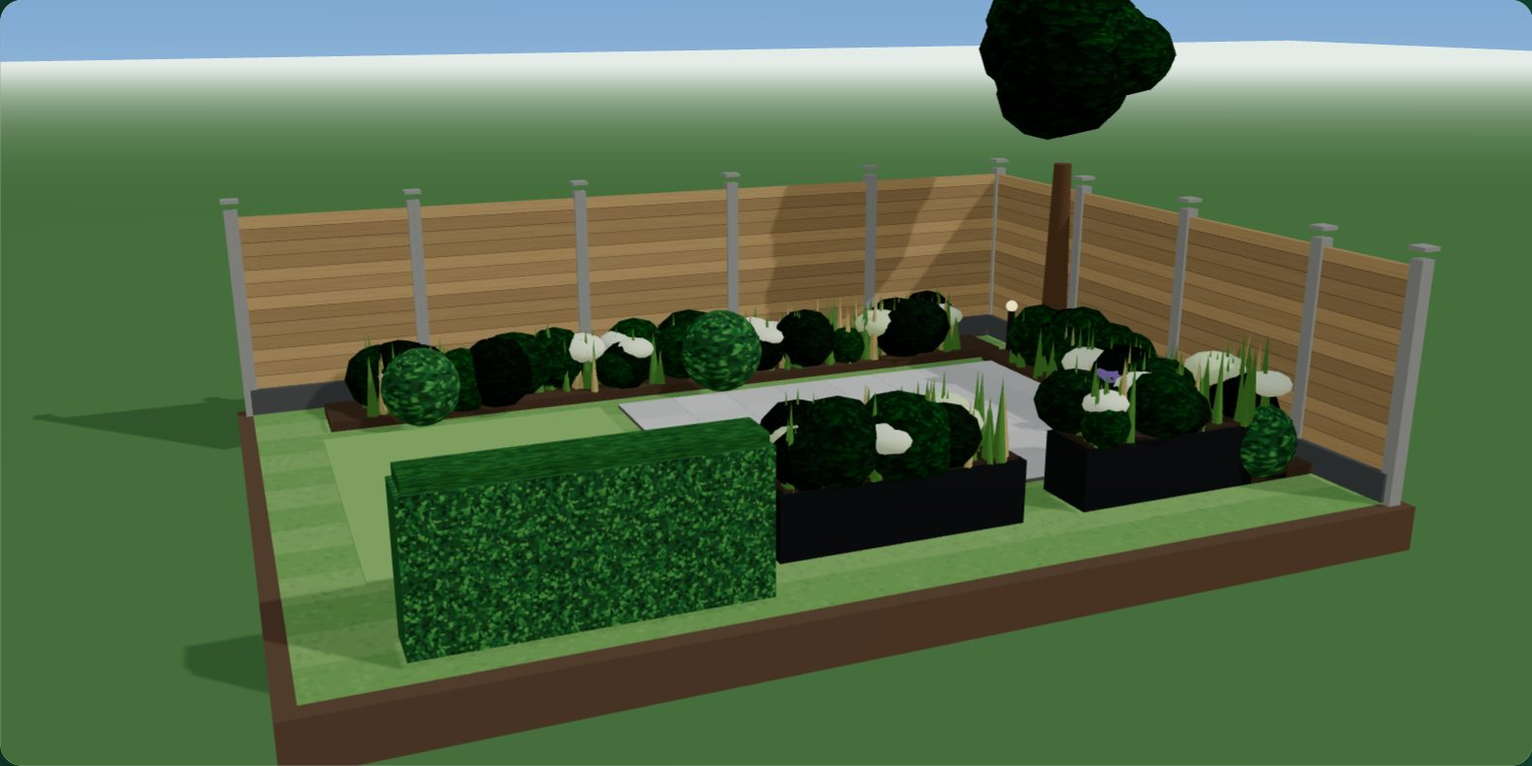
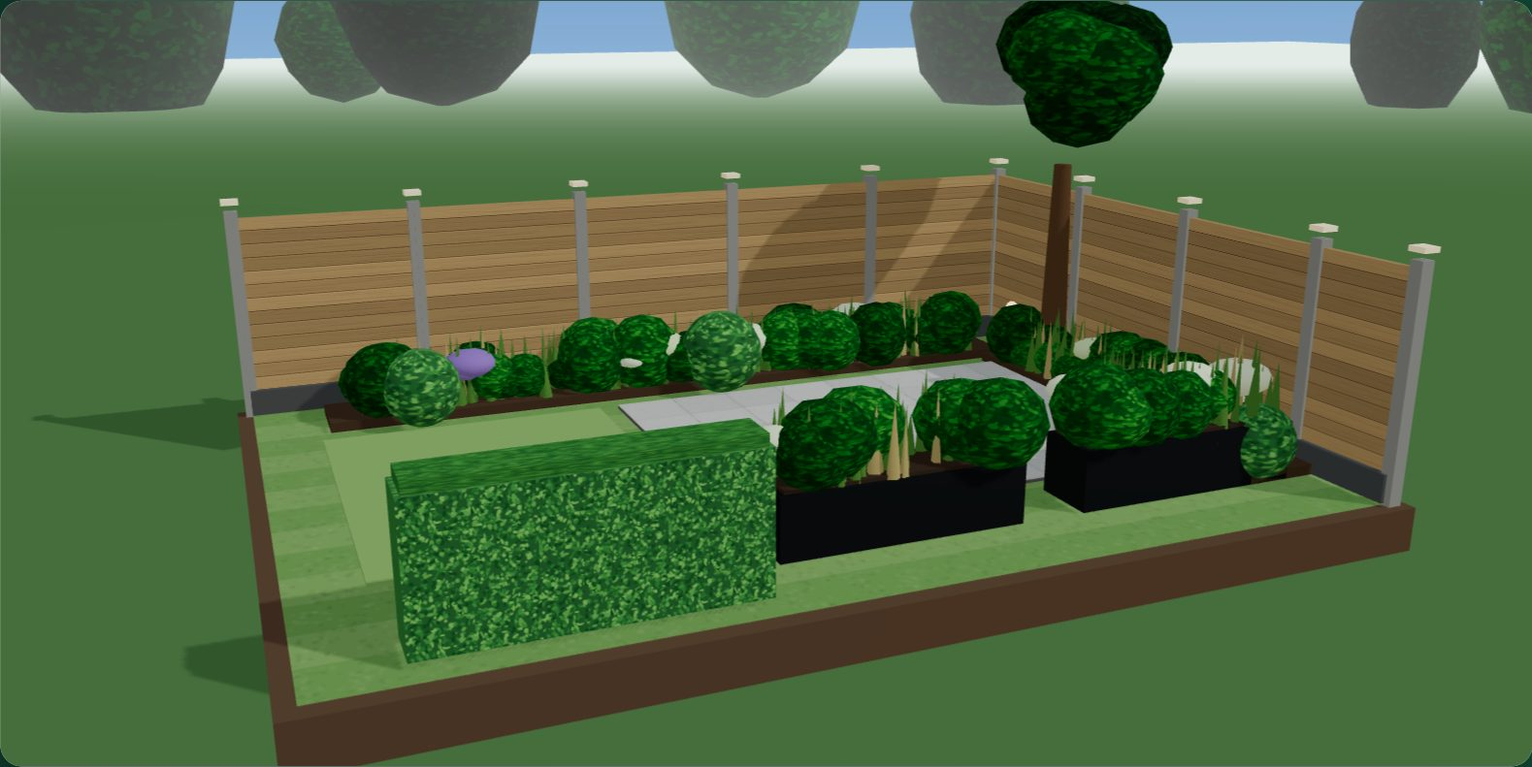
V13 ronde 4: 3D met dag/avond-sfeer (verlichting), omgeving, texturen en planten; schuttingen met projectenraster en rustiger ritme
Claude-Session: https://claude.ai/code/session_01G4kPMSFPp2GYjgRancjYe5

diff --git a/js/configurator/three-scene.js b/js/configurator/three-scene.js
@@ -46,9 +46,6 @@ export function createThreeScene(host, project, opts = {}) {
 
   const scene = new THREE.Scene();
   if (scenic) {
-    const sky = document.createElement("canvas"); sky.width = 4; sky.height = 256; const sg = sky.getContext("2d"), grad = sg.createLinearGradient(0, 0, 0, 256);
-    grad.addColorStop(0, "#7fa9d2"); grad.addColorStop(0.55, "#cfe0ee"); grad.addColorStop(1, "#eef2ee"); sg.fillStyle = grad; sg.fillRect(0, 0, 4, 256);
-    const skyTex = new THREE.CanvasTexture(sky); skyTex.colorSpace = THREE.SRGBColorSpace; scene.background = skyTex;
     scene.fog = new THREE.Fog(0xe4ece8, 30, 95);
   }
   const camera = new THREE.PerspectiveCamera(42, 1, 0.1, 500);
@@ -61,8 +58,8 @@ export function createThreeScene(host, project, opts = {}) {
   controls.maxPolarAngle = Math.PI * 0.49; // niet onder de grond kunnen kijken
   controls.target.set(0, 0, 0);
 
-  scene.add(new THREE.AmbientLight(0xffffff, scenic ? 0.75 : 0.65));
-  if (scenic) scene.add(new THREE.HemisphereLight(0xdfeeff, 0x9a8a6a, 0.8));
+  const ambient = new THREE.AmbientLight(0xffffff, scenic ? 0.75 : 0.65); scene.add(ambient);
+  const hemi = scenic ? new THREE.HemisphereLight(0xdfeeff, 0x9a8a6a, 0.8) : null; if (hemi) scene.add(hemi);
 
   // ---- Scenic: procedurele texturen en vaste pseudo-willekeur (geen externe bestanden) ----
   let seed = 7;
@@ -118,7 +115,7 @@ export function createThreeScene(host, project, opts = {}) {
     const t = plankTexture(hex, horizontal, dark).clone(); t.needsUpdate = true;
     const plank = 0.14 * 6; // 6 planken per tegel
     if (horizontal) t.repeat.set(lengthM / 1.8, heightM / plank); else t.repeat.set(lengthM / plank, heightM / 1.8);
-    const m = track(new THREE.MeshStandardMaterial({ map: t, roughness: dark ? 0.55 : 0.82, metalness: dark ? 0.05 : 0 }));
+    const m = track(new THREE.MeshStandardMaterial({ map: t, bumpMap: t, bumpScale: 1.6, roughness: dark ? 0.55 : 0.82, metalness: dark ? 0.05 : 0 }));
     panelMatCache.set(key, m); return m;
   }
   /** Scenic: bladtextuur en geïnstantieerde beplanting (weinig draw calls, geschikt voor mobiel). */
@@ -126,9 +123,9 @@ export function createThreeScene(host, project, opts = {}) {
   function leafTexture() {
     if (leafTex) return leafTex;
     const c = document.createElement("canvas"); c.width = c.height = 256; const g = c.getContext("2d");
-    g.fillStyle = "#2f5a30"; g.fillRect(0, 0, 256, 256);
+    g.fillStyle = "#3f7340"; g.fillRect(0, 0, 256, 256);
     let sd = 3; const r = () => { sd = (sd * 16807) % 2147483647; return (sd - 1) / 2147483646; };
-    const cols = ["#3d7a3d", "#4f8f45", "#2a5128", "#63a050", "#36703a", "#1f4222"];
+    const cols = ["#58a04f", "#6fb55a", "#3c7a3c", "#84c767", "#4c9246", "#2f6532"];
     for (let i = 0; i < 1500; i++) { g.fillStyle = cols[Math.floor(r() * cols.length)]; g.beginPath(); g.ellipse(r() * 256, r() * 256, 2 + r() * 5, 1.5 + r() * 3, r() * 3.14, 0, 6.28); g.fill(); }
     leafTex = new THREE.CanvasTexture(c); leafTex.colorSpace = THREE.SRGBColorSpace; leafTex.wrapS = leafTex.wrapT = THREE.RepeatWrapping; return leafTex;
   }
@@ -147,11 +144,20 @@ export function createThreeScene(host, project, opts = {}) {
     const group = [];
     const nShrub = Math.max(3, Math.min(34, Math.round(lenM * widM * 6 * density))), nGrass = Math.max(4, Math.min(48, Math.round(lenM * widM * 9 * density))), nBloom = Math.max(2, Math.min(16, Math.round(lenM * widM * 2.2 * density)));
     const rx = () => cx + (rnd() - 0.5) * lenM * 0.9, rz = () => cz + (rnd() - 0.5) * widM * 0.8;
-    const GR = [0x2f5d34, 0x3e7a3f, 0x4f8a45, 0x24492b, 0x5f9a50];
+    const GR = [0x7fb86c, 0x92c97a, 0x6aa85a, 0x5a9a4e, 0xa4d886];
     group.push(instancedSet(new THREE.IcosahedronGeometry(1, 1), foliageMaterial(1, 1), nShrub, () => { const r = 0.2 + rnd() * 0.22; return { x: rx(), y: baseY + r * 0.8, z: rz(), sx: r, sy: r * (0.8 + rnd() * 0.3), sz: r, color: GR[Math.floor(rnd() * GR.length)] }; }));
     group.push(instancedSet(new THREE.ConeGeometry(0.07, 0.8, 5, 1, true), track(new THREE.MeshStandardMaterial({ roughness: 0.9, side: THREE.DoubleSide })), nGrass * 4, () => { const h = 0.5 + rnd() * 0.5; const tan = rnd() > 0.78; return { x: rx(), y: baseY + h * 0.35, z: rz(), sx: 0.6 + rnd() * 0.6, sy: h, sz: 0.6 + rnd() * 0.6, ry: rnd() * 3, color: tan ? 0xb8a56e : 0x5f8a3c }; }));
     group.push(instancedSet(new THREE.IcosahedronGeometry(1, 1), track(new THREE.MeshStandardMaterial({ roughness: 0.8 })), nBloom, () => { const r = 0.15 + rnd() * 0.1; const k = rnd(); return { x: rx(), y: baseY + 0.3 + rnd() * 0.12, z: rz(), sx: r * 1.3, sy: r * 0.7, sz: r * 1.3, color: k < 0.6 ? 0xdfe6c8 : k < 0.85 ? 0xcfdcae : 0x9a86c8 }; }));
     return group;
+  }
+  const tileTex = new Map();
+  function tileTexture(color) {
+    const k = color.getHexString(); if (tileTex.has(k)) return tileTex.get(k);
+    const c = document.createElement("canvas"); c.width = c.height = 128; const g = c.getContext("2d"); g.fillStyle = "#" + k; g.fillRect(0, 0, 128, 128);
+    let sd = 9; const r = () => { sd = (sd * 16807) % 2147483647; return (sd - 1) / 2147483646; };
+    for (let i = 0; i < 700; i++) { g.fillStyle = r() > 0.5 ? "rgba(255,255,255,0.07)" : "rgba(0,0,0,0.07)"; g.fillRect(r() * 128, r() * 128, 1 + r() * 2, 1 + r() * 2); }
+    g.strokeStyle = "rgba(0,0,0,0.12)"; g.lineWidth = 2; g.strokeRect(0, 0, 128, 128);
+    const t = new THREE.CanvasTexture(c); t.colorSpace = THREE.SRGBColorSpace; tileTex.set(k, t); return t;
   }
   function lawnTexture(widthM, depthM) {
     const c = document.createElement("canvas"); c.width = 256; c.height = 256; const g = c.getContext("2d");
@@ -196,6 +202,30 @@ export function createThreeScene(host, project, opts = {}) {
     placeSun();
     scheduleFrame();
   }
+
+  // ---- Scenic: dag/avond-sfeer (verlichting aan, warme zon laag, donkerdere lucht) ----
+  const glowMats = [], lampLights = []; let mood = "day";
+  const MOODS = {
+    day: { amb: [0xffffff, 0.75], hemi: [0xdfeeff, 0x9a8a6a, 0.8], sun: [0xffffff, 0.9, 135, 40], sky: ["#7fa9d2", "#cfe0ee", "#eef2ee"], fog: 0xe4ece8, exposure: 1.0, glow: 0.12, lamp: 0 },
+    evening: { amb: [0x8a96c8, 0.85], hemi: [0x6a80b0, 0x3a3a2a, 1.0], sun: [0xffa860, 0.95, 250, 16], sky: ["#1d2d52", "#7a6a8a", "#f0b27a"], fog: 0x6a6a82, exposure: 1.4, glow: 2.6, lamp: 2.4 }
+  };
+  function paintSky(stops) {
+    const c = document.createElement("canvas"); c.width = 4; c.height = 256; const g = c.getContext("2d"), gr = g.createLinearGradient(0, 0, 0, 256);
+    gr.addColorStop(0, stops[0]); gr.addColorStop(0.55, stops[1]); gr.addColorStop(1, stops[2]); g.fillStyle = gr; g.fillRect(0, 0, 4, 256);
+    if (scene.background && scene.background.dispose) scene.background.dispose();
+    const t = new THREE.CanvasTexture(c); t.colorSpace = THREE.SRGBColorSpace; scene.background = t;
+  }
+  function applyMood() {
+    if (!scenic) return; const m = MOODS[mood];
+    ambient.color.set(m.amb[0]); ambient.intensity = m.amb[1]; hemi.color.set(m.hemi[0]); hemi.groundColor.set(m.hemi[1]); hemi.intensity = m.hemi[2];
+    sun.color.set(m.sun[0]); sun.intensity = m.sun[1]; sunState.azimuthDeg = m.sun[2]; sunState.elevationDeg = m.sun[3]; placeSun();
+    paintSky(m.sky); if (scene.fog) scene.fog.color.set(m.fog); renderer.toneMappingExposure = m.exposure;
+    glowMats.forEach((g) => { g.emissiveIntensity = g.userData.window ? (mood === "evening" ? 1.6 : 0.05) : m.glow; });
+    lampLights.forEach((l) => { l.intensity = m.lamp; });
+    scheduleFrame();
+  }
+  function setMood(name) { if (!MOODS[name]) return; mood = name; applyMood(); }
+  if (scenic) paintSky(MOODS.day.sky);
 
   const dynamicGroup = new THREE.Group();
   scene.add(dynamicGroup);
@@ -313,7 +343,8 @@ export function createThreeScene(host, project, opts = {}) {
       mesh.position.set(post.xMm * MM, (heightM + baseM) / 2, post.zMm * MM);
       dynamicGroup.add(mesh);
       if (scenic) {
-        const cap = new THREE.Mesh(track(new THREE.BoxGeometry(postSize + 0.04, 0.035, postSize + 0.04)), postMaterial);
+        const capMat = track(new THREE.MeshStandardMaterial({ color: 0xf0e6cc, emissive: 0xffc77a, emissiveIntensity: MOODS[mood].glow, roughness: 0.6 })); glowMats.push(capMat);
+        const cap = new THREE.Mesh(track(new THREE.BoxGeometry(postSize + 0.04, 0.05, postSize + 0.04)), capMat);
         cap.position.set(post.xMm * MM, heightM + baseM + 0.15 + 0.0175, post.zMm * MM);
         dynamicGroup.add(cap);
       }
@@ -340,7 +371,7 @@ export function createThreeScene(host, project, opts = {}) {
     if (!paving || !Array.isArray(paving.areas) || paving.areas.length === 0) return;
     const preset = getPavingColorPreset(paving.colorPresetId);
     const color = preset ? new THREE.Color(preset.colorHex) : new THREE.Color(0xc7c6c0);
-    const material = track(new THREE.MeshStandardMaterial({ color, roughness: 0.9 }));
+    const material = track(new THREE.MeshStandardMaterial({ color: scenic ? 0xffffff : color, map: scenic ? tileTexture(color) : null, bumpMap: scenic ? tileTexture(color) : null, bumpScale: 0.6, roughness: 0.85 }));
     const thicknessM = 0.04;
 
     let allTiles = [];
@@ -404,6 +435,15 @@ export function createThreeScene(host, project, opts = {}) {
       const around = new THREE.Mesh(track(new THREE.PlaneGeometry(200, 200)), track(new THREE.MeshStandardMaterial({ color: 0x5f8350, roughness: 1 })));
       around.rotation.x = -Math.PI / 2; around.position.set(cx, -0.43, cz); around.userData.isGround = true;
       dynamicGroup.add(around);
+      // Omgeving: boomgrens en buurhuis geven diepte (alleen visueel)
+      const R = Math.max(widthM, depthM) * 2.6 + 26, GRN = [0x2f5d34, 0x3e7a3f, 0x24492b, 0x4f8a45];
+      dynamicGroup.add(instancedSet(new THREE.IcosahedronGeometry(1, 1), foliageMaterial(2, 2), 34, (i) => { const a = (i / 34) * 6.283 + rnd() * 0.15, r = R + rnd() * 6, s2 = 2.6 + rnd() * 3; return { x: cx + Math.cos(a) * r, y: s2 * 0.9, z: cz + Math.sin(a) * r, sx: s2, sy: s2 * (0.9 + rnd() * 0.5), sz: s2, color: GRN[i % GRN.length] }; }));
+      const hx = cx - R * 0.35, hz = cz - R * 0.78, wallM = track(new THREE.MeshStandardMaterial({ color: 0xe6e1d4, roughness: 0.95 }));
+      const house = new THREE.Mesh(track(new THREE.BoxGeometry(11, 6.5, 7)), wallM); house.position.set(hx, 3.25, hz);
+      const roof = new THREE.Mesh(track(new THREE.CylinderGeometry(4.6, 4.6, 11.6, 3)), track(new THREE.MeshStandardMaterial({ color: 0x3b3f45, roughness: 0.8 }))); roof.rotation.z = Math.PI / 2; roof.rotation.y = Math.PI / 2; roof.position.set(hx, 7.6, hz); roof.scale.set(1, 1, 0.55);
+      dynamicGroup.add(house, roof);
+      for (let i = 0; i < 4; i++) { const wm = track(new THREE.MeshStandardMaterial({ color: 0x9fb4c4, emissive: 0xffc47a, emissiveIntensity: mood === "evening" ? 1.6 : 0.05, roughness: 0.3 })); wm.userData.window = true; glowMats.push(wm); const w = new THREE.Mesh(track(new THREE.PlaneGeometry(1.6, 1.8)), wm); w.position.set(hx - 3.6 + i * 2.4, 2.8, hz + 3.52); dynamicGroup.add(w); }
+
     } else {
       const grid = track(new THREE.GridHelper(Math.max(widthM, depthM) * 1.4, Math.round(Math.max(widthM, depthM))));
       grid.position.set(cx, 0, cz);
@@ -471,9 +511,11 @@ export function createThreeScene(host, project, opts = {}) {
       if (o.type === "lamp") {
         const pole = new THREE.Mesh(track(new THREE.CylinderGeometry(0.04, 0.05, 0.6, 10)), mat);
         pole.position.set(cx, 0.3, cz);
-        const glow = new THREE.Mesh(track(new THREE.SphereGeometry(0.07, 10, 8)), track(new THREE.MeshStandardMaterial({ color: 0xfff1c4, emissive: 0xffd77a, emissiveIntensity: 0.8 })));
+        const gm = track(new THREE.MeshStandardMaterial({ color: 0xfff1c4, emissive: 0xffd77a, emissiveIntensity: 0.8 }));
+        const glow = new THREE.Mesh(track(new THREE.SphereGeometry(0.07, 10, 8)), gm);
         glow.position.set(cx, 0.64, cz);
         dynamicGroup.add(pole, glow);
+        if (scenic && lampLights.length < 4) { gm.userData.lamp = true; glowMats.push(gm); const pl = new THREE.PointLight(0xffc27a, MOODS[mood].lamp, 7, 2); pl.position.set(cx, 0.8, cz); dynamicGroup.add(pl); lampLights.push(pl); }
         continue;
       }
       if (scenic && !remove && o.type === "hedge") {
@@ -508,6 +550,7 @@ export function createThreeScene(host, project, opts = {}) {
     }
     disposables.clear();
     clearGroup(dynamicGroup);
+    glowMats.length = 0; lampLights.length = 0;
 
     const { widthM, depthM, cx, cz } = buildGardenGround(project.garden);
     buildFence(project.fence);
@@ -640,5 +683,5 @@ export function createThreeScene(host, project, opts = {}) {
   update(project);
   setView("3d");
 
-  return { update, setView, resetCamera, exportPng, dispose, setSun, projectPoint, onFrame };
+  return { update, setView, resetCamera, exportPng, dispose, setSun, setMood, projectPoint, onFrame };
 }

diff --git a/schuttingen/index.html b/schuttingen/index.html
@@ -150,36 +150,7 @@
       </ul>
       <p class="callout">Schuttingen worden geoffreerd per strekkende meter, afhankelijk van materiaal en afwerking. Het schuttingmateriaal kan in de offerte worden opgenomen, na advies over geschikte opties.</p></div></details></div></div></section>
 
-  <section class="section section-sand-deep">
-    <div class="container-narrow">
-      <h2>Waarom Sealcleaning?</h2>
-      <p>Sealcleaning is een jong en gedreven hoveniersbedrijf uit Dordrecht, ondersteund door vakmensen met jarenlange praktijkervaring. We werken met korte lijnen: u spreekt rechtstreeks met wie het werk uitvoert, en maken vooraf duidelijke afspraken over werkzaamheden en materialen.</p>
-      <a href="../over-ons/" class="btn btn-secondary btn-sm">Meer over ons</a>
-    </div>
-  </section>
-
-  <section class="section">
-    <div class="container">
-      <div class="section-head center">
-        <p class="eyebrow">Uit de praktijk</p>
-        <h2>Relevante projecten</h2>
-      </div>
-      <div class="feature-split reveal">
-        <div class="feature-media reveal-img">
-          <picture><source srcset="../images/projects/schutting-horizontaal-lamellen-zon-2-640.webp 640w, ../images/projects/schutting-horizontaal-lamellen-zon-2-800.webp 800w, ../images/projects/schutting-horizontaal-lamellen-zon-2-960.webp 960w, ../images/projects/schutting-horizontaal-lamellen-zon-2.webp 1200w" sizes="(max-width: 700px) 92vw, (max-width: 1100px) 46vw, 440px" type="image/webp"><img src="../images/projects/schutting-horizontaal-lamellen-zon-2.jpg" alt="Schutting met horizontale lamellen" loading="lazy" decoding="async" width="1200" height="1600"></picture>
-        </div>
-        <div class="feature-copy">
-          <h3 style="font-size: var(--fs-h2)">Schutting geplaatst, Dordrecht</h3>
-          <p class="lede" style="font-size:1.05rem">Grenen schutting op zwarte onderplaat</p>
-          <a href="../projecten/" class="link-underline">
-            Bekijk alle projecten
-            <svg width="16" height="16" viewBox="0 0 24 24" fill="none" stroke="currentColor" stroke-width="2"><path d="M5 12h14M13 6l6 6-6 6"/></svg>
-          </a>
-        </div>
-      </div>
-      <p class="text-center" style="margin-top:2rem"><a href="../projecten/" class="btn btn-secondary">Bekijk alle projecten</a></p>
-    </div>
-  </section>
+  <!--v13-proj--><section class="v-section" aria-labelledby="titel-praktijk"><div class="container"><div class="v-section-head v-row"><div><p class="v-eyebrow">Uit de praktijk</p><h2 class="v-h2" id="titel-praktijk">Schuttingen die we plaatsten</h2><p class="v-lede">Sealcleaning is een jong en gedreven hoveniersbedrijf uit Dordrecht, ondersteund door vakmensen met jarenlange praktijkervaring. U spreekt rechtstreeks met wie het werk uitvoert. <a class="v-link" href="../over-ons/">Meer over ons</a></p></div><a class="btn btn-secondary" href="../projecten/">Bekijk alle projecten</a></div><div class="v-projects v-projects-3"><a class="v-project" href="../projecten/grenen-schutting-zwarte-onderplaat/"><figure style="margin:0;height:100%"><picture><source srcset="../images/projects/schutting-grenen-zwarte-voet-1-640.webp 640w, ../images/projects/schutting-grenen-zwarte-voet-1-800.webp 800w, ../images/projects/schutting-grenen-zwarte-voet-1-960.webp 960w, ../images/projects/schutting-grenen-zwarte-voet-1.webp 1500w" sizes="(max-width: 700px) 92vw, 360px" type="image/webp"><img src="../images/projects/schutting-grenen-zwarte-voet-1.jpg" alt="Grenen schutting op zwarte onderplaat, eigen werk van Sealcleaning" width="1500" height="1000" loading="lazy" decoding="async"></picture><figcaption><strong>Grenen schutting op zwarte onderplaat</strong>Hout op onderplaat, Dordrecht</figcaption></figure></a><a class="v-project" href="../projecten/kastanjehouten-paaltjesschutting/"><figure style="margin:0;height:100%"><picture><source srcset="../images/projects/schutting-kastanje-paaltjes-dordrecht-1-640.webp 640w, ../images/projects/schutting-kastanje-paaltjes-dordrecht-1-800.webp 800w, ../images/projects/schutting-kastanje-paaltjes-dordrecht-1-960.webp 960w, ../images/projects/schutting-kastanje-paaltjes-dordrecht-1.webp 1500w" sizes="(max-width: 700px) 92vw, 360px" type="image/webp"><img src="../images/projects/schutting-kastanje-paaltjes-dordrecht-1.jpg" alt="Kastanjehouten paaltjesschutting, eigen werk van Sealcleaning" width="1500" height="1000" loading="lazy" decoding="async"></picture><figcaption><strong>Kastanjehouten paaltjesschutting</strong>Rustiek en open, Dordrecht</figcaption></figure></a><a class="v-project" href="../projecten/kunstgras-achter-nieuwe-schutting/"><figure style="margin:0;height:100%"><picture><source srcset="../images/projects/terras-kunstgras-opgeleverd-640.webp 640w, ../images/projects/terras-kunstgras-opgeleverd-800.webp 800w, ../images/projects/terras-kunstgras-opgeleverd-960.webp 960w, ../images/projects/terras-kunstgras-opgeleverd.webp 1500w" sizes="(max-width: 700px) 92vw, 360px" type="image/webp"><img src="../images/projects/terras-kunstgras-opgeleverd.jpg" alt="Kunstgras achter nieuwe schutting, eigen werk van Sealcleaning" width="1500" height="1000" loading="lazy" decoding="async"></picture><figcaption><strong>Kunstgras achter nieuwe schutting</strong>Schutting en gazon, Dordrecht</figcaption></figure></a></div></div></section>
 
   <section class="section section-sand-deep">
     <div class="container-narrow">
@@ -197,19 +168,6 @@
           <summary>Hoe stevig worden de palen verankerd?<span class="chev"><svg width="18" height="18" viewBox="0 0 24 24" fill="none" stroke="currentColor" stroke-width="2"><path d="M12 5v14M5 12h14"/></svg></span></summary>
           <p>De palen worden stevig ingegraven en verankerd, afgestemd op de hoogte en het materiaal van de schutting.</p>
         </details>
-      </div>
-    </div>
-  </section>
-
-  <section class="section">
-    <div class="container">
-      <div class="cta-banner reveal">
-        <h2>Wilt u aan de slag met schuttingen?</h2>
-        <p>Plan een gratis bezichtiging in Dordrecht en ontvang een heldere offerte, of stuur direct een bericht via WhatsApp.</p>
-        <div class="btn-row" style="justify-content:center">
-          <a href="../contact/" class="btn btn-ghost-light btn-lg" style="background:#fff;color:var(--c-forest);border-color:#fff">Plan mijn bezichtiging</a>
-          <a href="#" class="btn btn-ghost-light btn-lg" data-whatsapp data-whatsapp-msg="Hallo Sealcleaning, ik wil graag informatie over het plaatsen of vervangen van een schutting.">Stuur een WhatsApp-bericht</a>
-        </div>
       </div>
     </div>
   </section>

diff --git a/js/v12/beginner/app.js b/js/v12/beginner/app.js
@@ -213,6 +213,7 @@ async function ensureScene() {
     if (!mod.isWebGL2Supported()) throw new Error("webgl");
     preview.scene = mod.createThreeScene(preview.host, buildProject(preview.decor), { scenic: true, figure: true });
     preview.scene.onFrame(drawDims);
+    if (preview.mood === "evening") preview.scene.setMood("evening");
     updatePreview();
   } catch (e) {
     preview.fallback = true;
@@ -597,6 +598,7 @@ function reset() { st = fresh(); preview.showDims = true; save(); render(true); 
 
 /* ---------------- preview-bediening ---------------- */
 root.querySelector("[data-b-view-top]")?.addEventListener("click", () => preview.scene && preview.scene.setView("top"));
+root.querySelector("[data-b-mood]")?.addEventListener("click", (e) => { preview.mood = preview.mood === "evening" ? "day" : "evening"; e.currentTarget.setAttribute("aria-pressed", String(preview.mood === "evening")); if (preview.scene) preview.scene.setMood(preview.mood); });
 root.querySelector("[data-b-view-iso]")?.addEventListener("click", () => preview.scene && preview.scene.setView("iso"));
 root.querySelector("[data-b-view-front]")?.addEventListener("click", () => preview.scene && preview.scene.setView("front"));
 root.querySelector("[data-b-view-reset]")?.addEventListener("click", () => preview.scene && preview.scene.resetCamera());

diff --git a/css/v12.css b/css/v12.css
@@ -669,3 +669,12 @@ html { scroll-padding-bottom: 96px; }
 .i-mat { font-size: .78rem !important; letter-spacing: .04em; text-transform: uppercase; color: #6b4f1d !important; font-weight: 600; }
 .i-cards .i-card-body p:not(.i-mat) { min-height: 2.9em; }
 @media (max-width: 700px) { .v-3d-stage--big { aspect-ratio: 1 / 1; } .b-preview-stage { aspect-ratio: 5 / 4; } }
+/* Schuttingen: rustiger ritme */
+body.v12 main > .v-section { padding-block: clamp(2rem, 4vw, 3.4rem); }
+.v-section.v-sand + .v-section.v-sand { padding-top: 0; }
+.i-cards { gap: 1.4rem; }
+.i-card { box-shadow: 0 1px 2px rgba(16, 46, 39, .05); transition: box-shadow .2s, transform .2s; }
+.i-card:hover { box-shadow: 0 10px 28px rgba(16, 46, 39, .14); transform: translateY(-2px); }
+.i-card-img img { transition: transform .5s; }
+.i-card:hover .i-card-img img { transform: scale(1.04); }
+.i-disclaimer { max-width: 62ch; }

diff --git a/js/v12/home3d.js b/js/v12/home3d.js
@@ -36,6 +36,10 @@ if (host) {
         document.querySelectorAll("[data-3d-mat]").forEach((o) => o.setAttribute("aria-pressed", String(o === b)));
         note(`Voorbeeld in 3D met ${b.textContent.toLowerCase()}, geen echt project.`);
       }));
+      document.querySelectorAll("[data-3d-mood]").forEach((b) => b.addEventListener("click", () => {
+        scene.setMood(b.dataset["3dMood"]); document.querySelectorAll("[data-3d-mood]").forEach((o) => o.setAttribute("aria-pressed", String(o === b)));
+        note(b.dataset["3dMood"] === "evening" ? "Avondsfeer met tuinverlichting, geen echt project." : "Voorbeeld in 3D, geen echt project. Sleep om rond te kijken.");
+      }));
       btn("[data-3d-top]", () => scene.setView("top"));
       btn("[data-3d-iso]", () => scene.setView("iso"));
       btn("[data-3d-reset]", () => scene.resetCamera());

diff --git a/index.html b/index.html
@@ -146,6 +146,10 @@
           <button type="button" class="v-chip" data-3d-mat="composiet" aria-pressed="false">Composiet</button>
           <button type="button" class="v-chip" data-3d-mat="lamellen" aria-pressed="false">Horizontale planken</button>
         </div>
+        <div class="v-3d-tools" role="group" aria-label="Sfeer">
+          <button type="button" class="v-chip" data-3d-mood="day" aria-pressed="true">Dag</button>
+          <button type="button" class="v-chip" data-3d-mood="evening" aria-pressed="false">Avond met verlichting</button>
+        </div>
         <div class="v-3d-tools" role="group" aria-label="Camera">
           <button type="button" class="v-chip" data-3d-iso>Schuin van boven</button>
           <button type="button" class="v-chip" data-3d-top>Van boven</button>

diff --git a/schutting-ontwerpen/index.html b/schutting-ontwerpen/index.html
@@ -125,6 +125,7 @@
           <div class="b-tools">
             <button type="button" data-b-dims aria-pressed="true">Maten verbergen</button>
             <button type="button" data-b-decor aria-pressed="true">Alleen mijn keuzes tonen</button>
+            <button type="button" data-b-mood aria-pressed="false">Avondsfeer</button>
             <button type="button" data-b-view-iso>Schuin van boven</button>
             <button type="button" data-b-view-front>Van voren</button>
             <button type="button" data-b-view-top>Van boven</button>

diff --git a/tools/build-v13.py b/tools/build-v13.py
@@ -84,6 +84,10 @@ def home_main():
           <button type="button" class="v-chip" data-3d-mat="composiet" aria-pressed="false">Composiet</button>
           <button type="button" class="v-chip" data-3d-mat="lamellen" aria-pressed="false">Horizontale planken</button>
         </div>
+        <div class="v-3d-tools" role="group" aria-label="Sfeer">
+          <button type="button" class="v-chip" data-3d-mood="day" aria-pressed="true">Dag</button>
+          <button type="button" class="v-chip" data-3d-mood="evening" aria-pressed="false">Avond met verlichting</button>
+        </div>
         <div class="v-3d-tools" role="group" aria-label="Camera">
           <button type="button" class="v-chip" data-3d-iso>Schuin van boven</button>
           <button type="button" class="v-chip" data-3d-top>Van boven</button>
@@ -174,6 +178,18 @@ def schuttingen_main():
             while body.count("</div>") > body.count("<div"): body = body[:body.rfind("</div>")] + body[body.rfind("</div>") + 6:]
             items.append(f'<details class="v-acc-item"{" open" if n == 0 else ""}><summary>{title.strip()}</summary><div class="v-acc-body">{body.strip()}</div></details>')
         tail = '<!--v13-acc--><section class="v-section v-sand" aria-labelledby="titel-info"><div class="container"><div class="v-section-head"><p class="v-eyebrow">Goed om te weten</p><h2 class="v-h2" id="titel-info">Alles over schuttingen plaatsen</h2></div><div class="v-acc">' + "".join(items) + '</div></div></section>\n\n  ' + rest
+    if "<!--v13-proj-->" not in tail:
+        a = tail.index("<h2>Waarom Sealcleaning?</h2>"); a = tail.rfind("<section", 0, a)
+        b = tail.index("<h2>Vragen over schuttingen</h2>"); b = tail.rfind("<section", 0, b)
+        PJ = [("projecten/grenen-schutting-zwarte-onderplaat/", "schutting-grenen-zwarte-voet-1", "Grenen schutting op zwarte onderplaat", "Hout op onderplaat, Dordrecht"),
+              ("projecten/kastanjehouten-paaltjesschutting/", "schutting-kastanje-paaltjes-dordrecht-1", "Kastanjehouten paaltjesschutting", "Rustiek en open, Dordrecht"),
+              ("projecten/kunstgras-achter-nieuwe-schutting/", "terras-kunstgras-opgeleverd", "Kunstgras achter nieuwe schutting", "Schutting en gazon, Dordrecht")]
+        cards = "".join(f'<a class="v-project" href="../{h}"><figure style="margin:0;height:100%">{rpic("../", n, t + ", eigen werk van Sealcleaning", "(max-width: 700px) 92vw, 360px")}<figcaption><strong>{t}</strong>{d}</figcaption></figure></a>' for h, n, t, d in PJ)
+        proj = ('<!--v13-proj--><section class="v-section" aria-labelledby="titel-praktijk"><div class="container"><div class="v-section-head v-row"><div><p class="v-eyebrow">Uit de praktijk</p><h2 class="v-h2" id="titel-praktijk">Schuttingen die we plaatsten</h2>'
+                '<p class="v-lede">Sealcleaning is een jong en gedreven hoveniersbedrijf uit Dordrecht, ondersteund door vakmensen met jarenlange praktijkervaring. U spreekt rechtstreeks met wie het werk uitvoert. <a class="v-link" href="../over-ons/">Meer over ons</a></p></div>'
+                f'<a class="btn btn-secondary" href="../projecten/">Bekijk alle projecten</a></div><div class="v-projects v-projects-3">{cards}</div></div></section>\n\n  ')
+        tail = tail[:a] + proj + tail[b:]
+    tail = re.sub(r'\s*<section class="section">\s*<div class="container">\s*<div class="cta-banner reveal">.*?</section>', "", tail, flags=re.S)  # dubbele slot-CTA (advies + footer-CTA volstaan)
     r = "../"
     top = f"""
   {hero_block(r, "schutting-hout-wandverlichting-avond", "Schuttingen", "Schuttingen", "Meer privacy en een mooie uitstraling, netjes geplaatst door Sealcleaning in Dordrecht en omgeving.",
